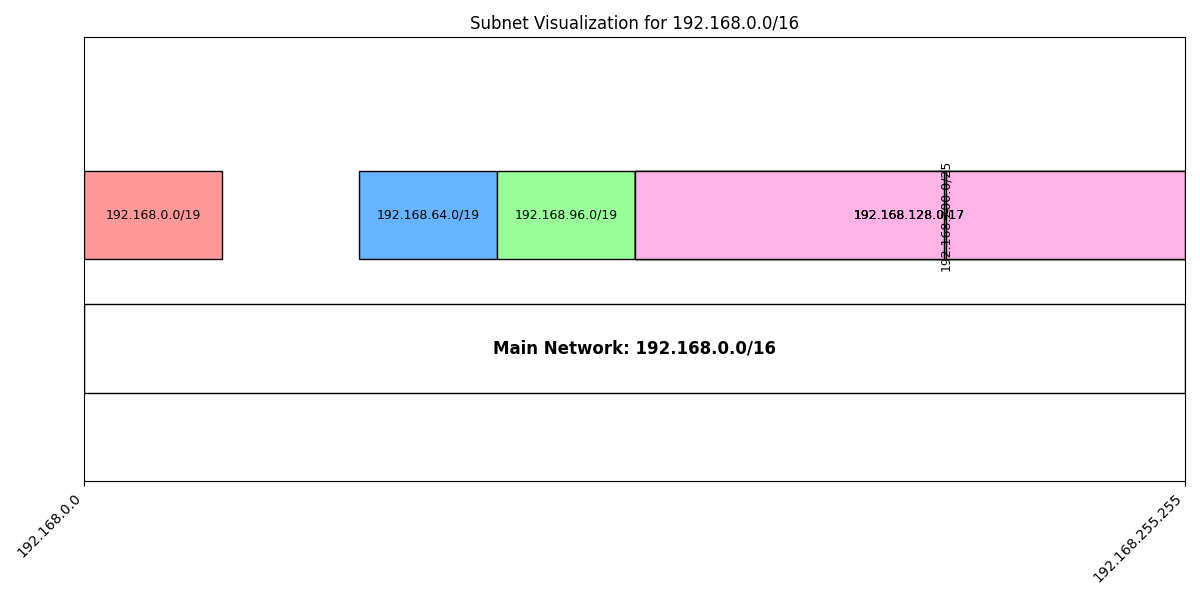
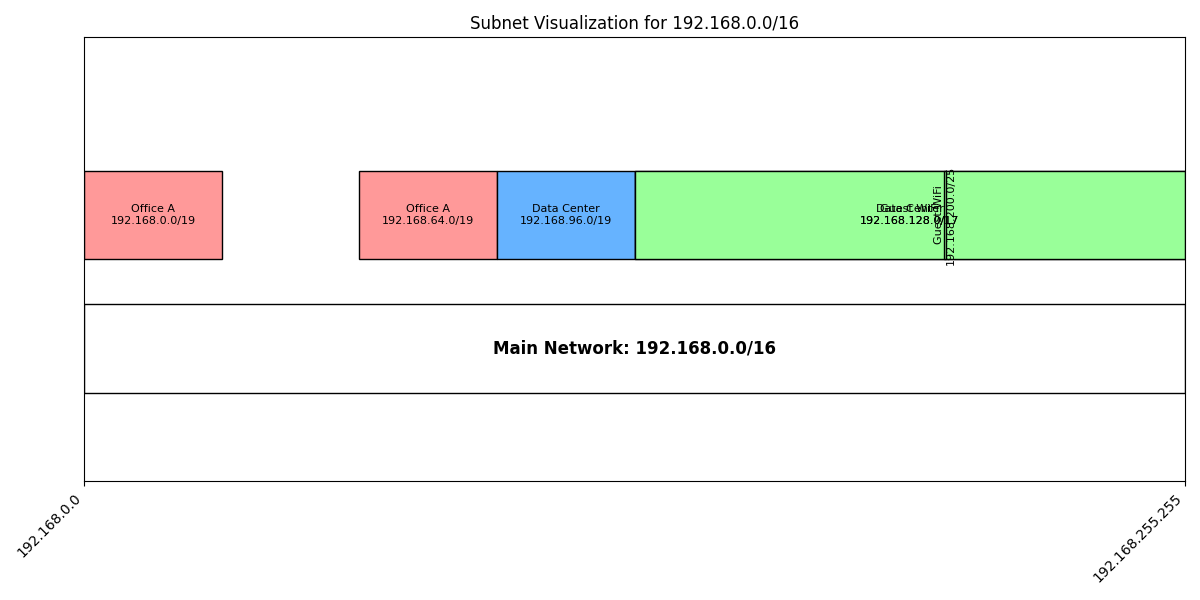
changed input data type to better represent real subnets

Changed region(s): [[0.2775, 0.27, 0.9867, 0.45], [0.0925, 0.33, 0.1542, 0.39]]

diff --git a/visualizer.py b/visualizer.py
@@ -13,20 +13,28 @@ def parse_network(cidr):
 def ip_to_int(ip):
     return int(ip)
 
-def draw_network_diagram(main_cidr, subnets_cidrs, output_file="subnet_map.png"):
+def draw_network_diagram(main_cidr, subnet_groups, output_file="subnet_map.png"):
     main_net = parse_network(main_cidr)
     if not main_net:
         return
 
-    subnets = []
-    for s in subnets_cidrs:
-        net = parse_network(s)
-        if net:
-            # Check if subnet is actually within main network
-            if not net.subnet_of(main_net):
-                print(f"Warning: {s} is not a subnet of {main_cidr}. Skipping.")
-                continue
-            subnets.append(net)
+    # Parse all subnets and store with metadata
+    parsed_subnets = []
+    for group_idx, group in enumerate(subnet_groups):
+        title = group.get('title', f"Group {group_idx+1}")
+        cidrs = group.get('subnets', [])
+        
+        for cidr in cidrs:
+            net = parse_network(cidr)
+            if net:
+                if not net.subnet_of(main_net):
+                    print(f"Warning: {cidr} is not a subnet of {main_cidr}. Skipping.")
+                    continue
+                parsed_subnets.append({
+                    'net': net,
+                    'title': title,
+                    'group_idx': group_idx
+                })
 
     # Setup plot
     fig, ax = plt.subplots(figsize=(12, 6))
@@ -42,17 +50,14 @@ def draw_network_diagram(main_cidr, subnets_cidrs, output_file="subnet_map.png")
     # Hide Y axis
     ax.get_yaxis().set_visible(False)
     
-    # Format X axis to show IP addresses instead of huge integers
-    # We'll pick a few points to label
+    # Format X axis
     ticks = [start_ip_int, end_ip_int]
     tick_labels = [str(main_net.network_address), str(main_net.broadcast_address)]
     
-    # Add some intermediate ticks if needed, but for now start/end is good for the main bar
     ax.set_xticks(ticks)
     ax.set_xticklabels(tick_labels, rotation=45, ha='right')
 
     # Draw Main Network (Base Line/Bar)
-    # Let's draw it as a big rectangle at the bottom
     main_rect = patches.Rectangle(
         (start_ip_int, 1), 
         total_hosts, 
@@ -76,21 +81,22 @@ def draw_network_diagram(main_cidr, subnets_cidrs, output_file="subnet_map.png")
     )
 
     # Draw Subnets
-    # We'll draw them on a "layer" above the main network
-    # To avoid overlapping text, we might need to stagger heights or just rely on visual separation
-    
-    # Sort subnets by address to draw them in order
-    subnets.sort(key=lambda x: x.network_address)
+    # Sort subnets by address
+    parsed_subnets.sort(key=lambda x: x['net'].network_address)
     
     colors = ['#ff9999', '#66b3ff', '#99ff99', '#ffcc99', '#c2c2f0', '#ffb3e6']
     
-    for i, subnet in enumerate(subnets):
+    for i, item in enumerate(parsed_subnets):
+        subnet = item['net']
+        title = item['title']
+        group_idx = item['group_idx']
+        
         s_start = ip_to_int(subnet.network_address)
         s_end = ip_to_int(subnet.broadcast_address)
         s_width = s_end - s_start
         
-        # Cycle colors
-        color = colors[i % len(colors)]
+        # Color based on group
+        color = colors[group_idx % len(colors)]
         
         # Draw rectangle
         rect = patches.Rectangle(
@@ -104,17 +110,15 @@ def draw_network_diagram(main_cidr, subnets_cidrs, output_file="subnet_map.png")
         ax.add_patch(rect)
         
         # Label
-        # If the subnet is too small, the text might be messy. 
-        # We'll try to put text in the center of the block.
-        label_text = str(subnet)
+        label_text = f"{title}\n{subnet}"
         ax.text(
             s_start + s_width/2, 
             3, 
             label_text, 
             ha='center', 
             va='center', 
-            fontsize=9, 
-            rotation=90 if s_width < total_hosts * 0.05 else 0 # Rotate if very narrow
+            fontsize=8, 
+            rotation=90 if s_width < total_hosts * 0.08 else 0
         )
 
     plt.title(f"Subnet Visualization for {main_cidr}")
@@ -126,19 +130,30 @@ def draw_network_diagram(main_cidr, subnets_cidrs, output_file="subnet_map.png")
 
 if __name__ == "__main__":
     # Example Usage
-    # You can modify these lists to test different configurations
     main = "192.168.0.0/16"
     
-
-    subs = [
-        "192.168.0.0/19",
-        # "192.168.32.0/19",
-        "192.168.64.0/19", 
-        "192.168.96.0/19",
-        "192.168.160.0/17",
-        "192.168.172.0/17",
-        "192.168.184.0/17",
-        "192.168.200.0/25"
+    subnet_groups = [
+        {
+            "title": "Office A",
+            "subnets": [
+                "192.168.0.0/19",
+                "192.168.64.0/19"
+            ]
+        },
+        {
+            "title": "Data Center",
+            "subnets": [
+                "192.168.96.0/19",
+                "192.168.160.0/17"
+            ]
+        },
+        {
+            "title": "Guest WiFi",
+            "subnets": [
+                "192.168.172.0/17", # Note: This overlaps with 160.0/17 if not careful, but assuming valid non-overlapping for now or just visualizing inputs
+                "192.168.200.0/25"
+            ]
+        }
     ]
     
-    draw_network_diagram(main, subs)
+    draw_network_diagram(main, subnet_groups)
